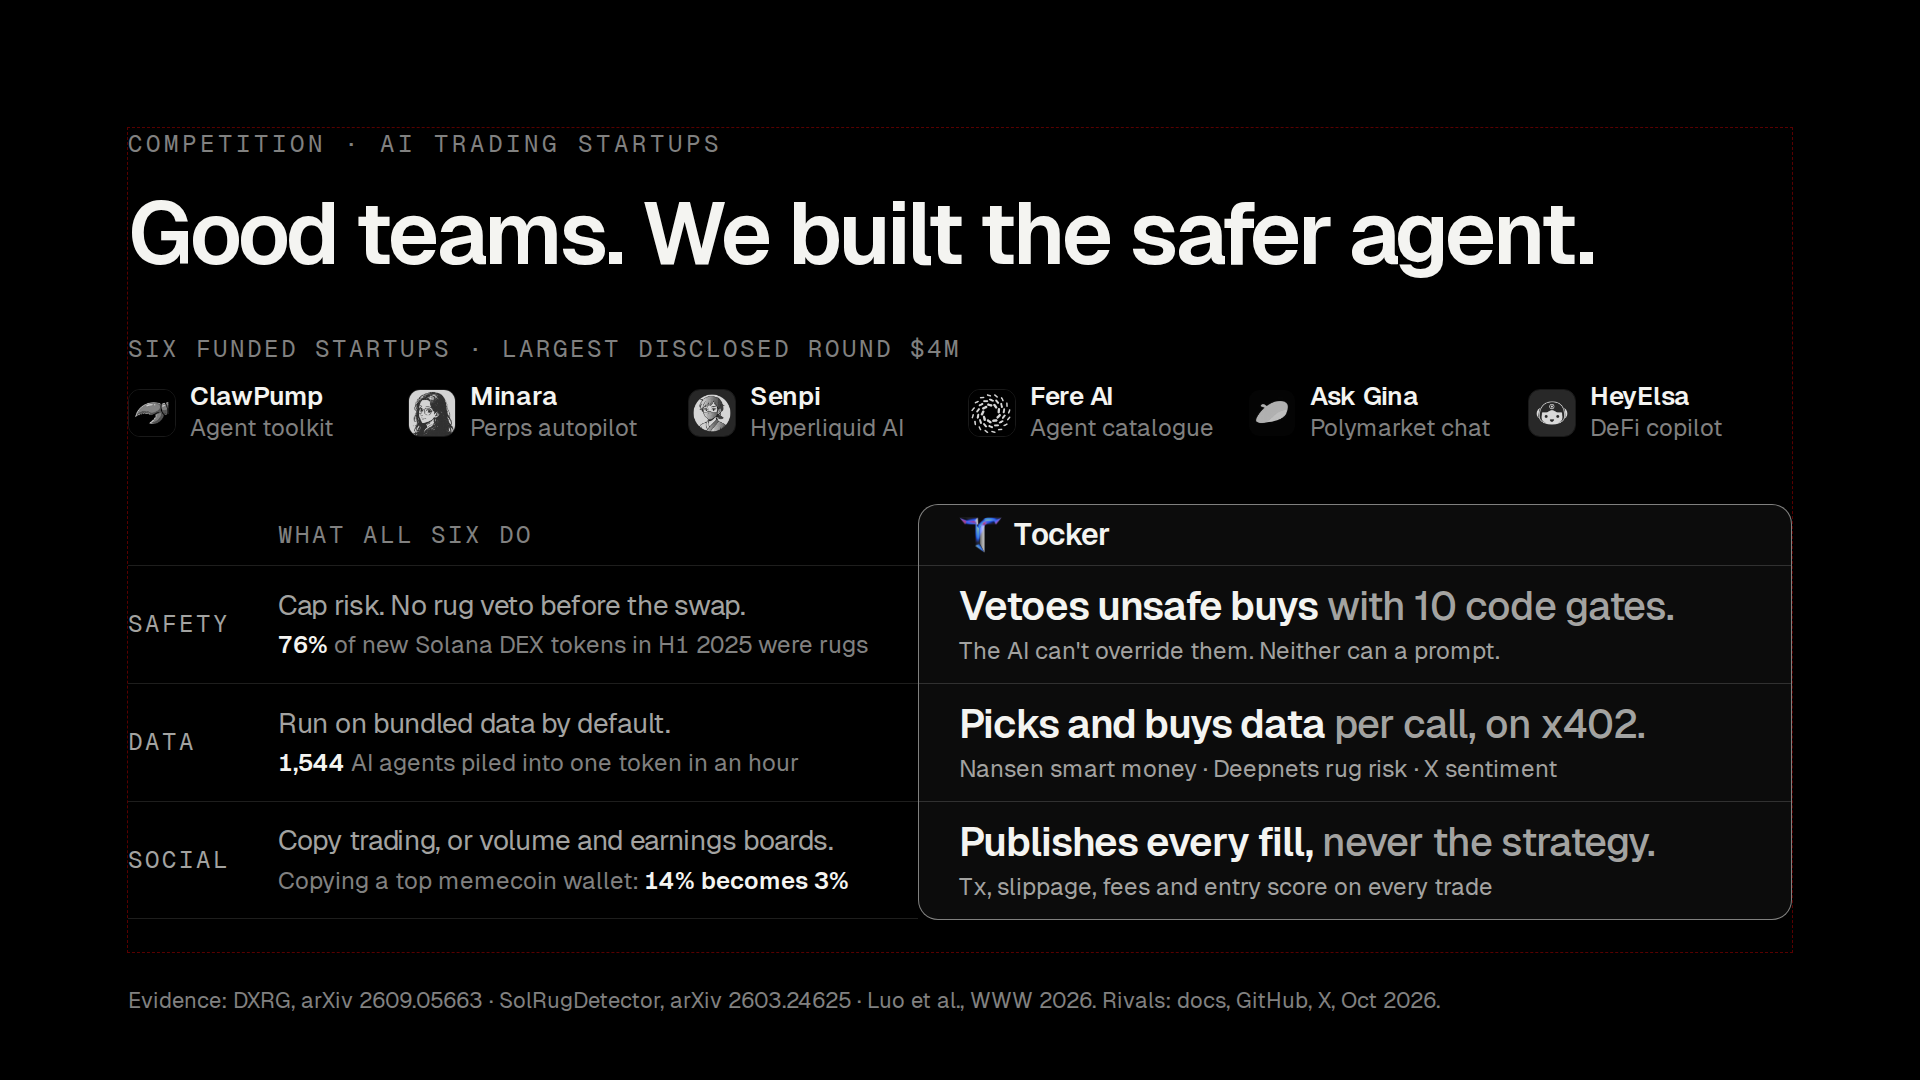
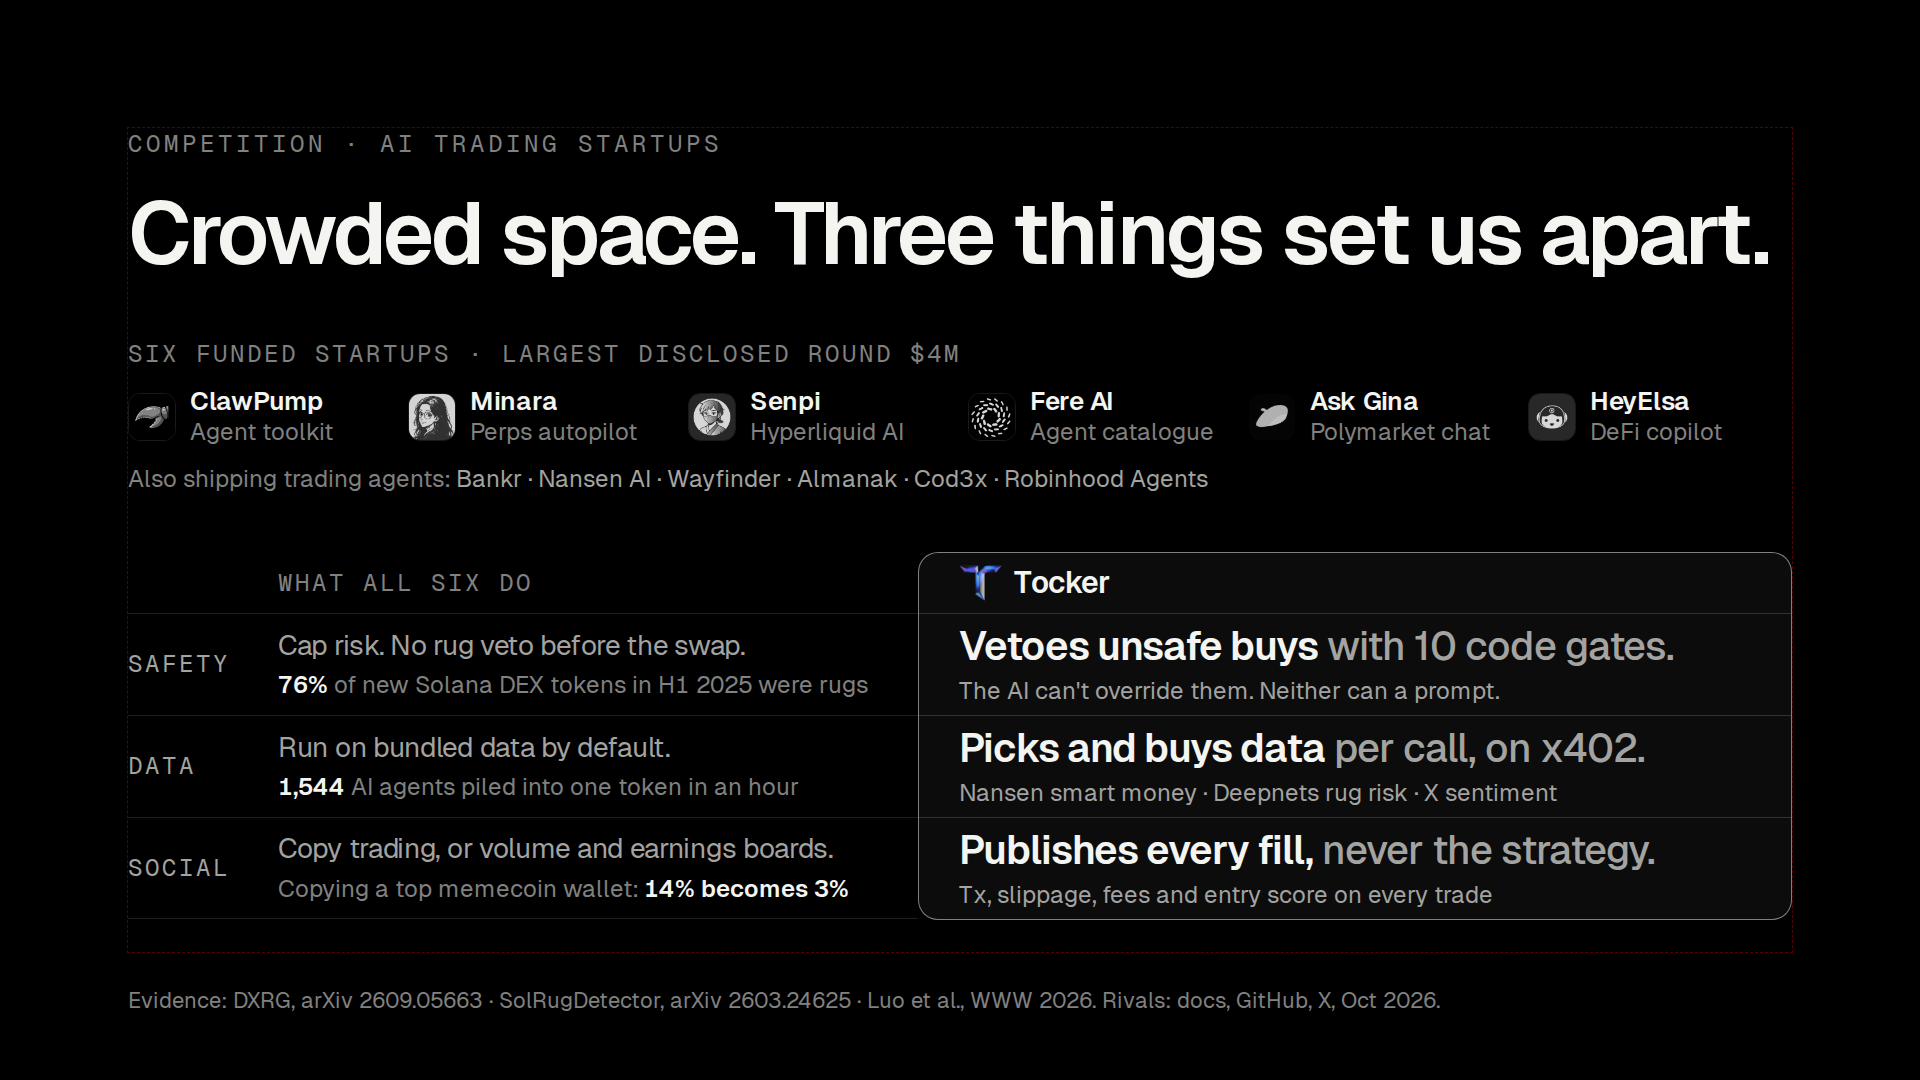
docs(pitch): drop the proof slide; competition shows a crowded field and three differences
Claude-Session: https://claude.ai/code/session_01C63X7bmiYFRUvieQLSha7b

diff --git a/docs/pitch/deck/build_competition.py b/docs/pitch/deck/build_competition.py
@@ -13,8 +13,9 @@ OUT = sys.argv[1] if len(sys.argv) > 1 else \
 DATA = {
     "eyebrow": "Competition · AI trading startups",
     # Founder's original, kept as an option: "An early category. A different approach."
-    "headline": "Good teams. We built the safer agent.",
+    "headline": "Crowded space. Three things set us apart.",
     "field_label": "Six funded startups · largest disclosed round $4M",
+    "also": ("Also shipping trading agents: ", "Bankr · Nansen AI · Wayfinder · Almanak · Cod3x · Robinhood Agents"),
     # (name, logo blob, best at; "invert" flips a light tile dark)
     "field": [
         ("ClawPump", "/_blob/0bc2d38756d41a19b0f4b42cae97ee97", "Agent toolkit"),
@@ -43,9 +44,10 @@ DATA = {
     ],
     "foot": ("Evidence: DXRG, arXiv 2609.05663 · SolRugDetector, arXiv 2603.24625 · Luo et al., WWW 2026. "
              "Rivals: docs, GitHub, X, Oct 2026."),
-    "note": ("Six AI trading startups, good teams, mostly perps and chat. We're better in three ways. Safety: nothing "
-             "of theirs vetoes a rug before the swap; ours does, in code, and the AI can't override it. Data: they share "
-             "bundled feeds, so agents herd; ours buys its own, per call. And we publish every fill, never the strategy."),
+    "note": ("This space is crowded. Six funded AI trading startups, plus Bankr, Nansen and now Robinhood, all "
+             "shipping agents. Good teams. Three things set us apart. Safety: none of the six vetoes a rug before the "
+             "swap; ours refuses in code, and the AI can't override it. Data: they run on bundled feeds, so agents herd; "
+             "ours buys its own, per call. And we publish every fill, never the strategy, instead of copy trading."),
 }
 
 MONO = "font-family:'Geist Mono', 'Courier New', monospace"
@@ -59,7 +61,7 @@ THEY_W = 640
 TOCK_W = 1664 - LABEL_W - THEY_W          # 874
 PAD = 40
 HEAD_H = 60
-ROW_H = 118
+ROW_H = 102
 TILE = 48
 
 
@@ -82,8 +84,11 @@ def field_strip():
                   f'<div style="display:flex;flex-direction:column;gap:2px">'
                   f'<p style="font-size:26px;font-weight:600;letter-spacing:-0.3px;line-height:1.15;color:{FG};white-space:nowrap">{esc(name)}</p>'
                   f'<p style="font-size:24px;line-height:1.2;color:{DIM};white-space:nowrap">{esc(best)}</p></div></div>')
+    pre, names = DATA["also"]
+    also = (f'<p style="font-size:24px;line-height:1.2;color:{DIM};white-space:nowrap">{esc(pre)}'
+            f'<span style="color:{MID}">{esc(names)}</span></p>')
     return (f'<div style="display:flex;flex-direction:column;gap:18px">{mono(DATA["field_label"])}'
-            f'<div style="display:flex;flex-direction:row;gap:16px">{tiles}</div></div>')
+            f'<div style="display:flex;flex-direction:row;gap:16px">{tiles}</div>{also}</div>')
 
 
 def left_block():
@@ -130,7 +135,7 @@ def build():
         f'<h2 style="{SANS};font-size:88px;font-weight:600;letter-spacing:-3px;line-height:1.05;color:{FG}">{esc(DATA["headline"])}</h2>\n'
         f'<div style="flex:1"></div>\n'
         f'{field_strip()}\n'
-        f'<div style="height:14px"></div>\n'
+        f'<div style="height:2px"></div>\n'
         f'{compare}\n'
         f'<p style="position:absolute;left:128px;bottom:64px;width:1664px;font-size:22px;line-height:1.35;color:{DIM};white-space:nowrap">{esc(DATA["foot"])}</p>\n'
         f'<aside>{esc(DATA["note"])}</aside>\n</section>\n'

diff --git a/docs/pitch/pitch-3min.md b/docs/pitch/pitch-3min.md
@@ -1,9 +1,9 @@
 # Tocker — 3-minute pitch (short deck, v6)
 
-~445 words over 11 slides, about 2:40 at 160 wpm. Reworked on Oct 8, 2026 after a pitch roast that pushed on three things: "what's the edge?", "the competitors are well established", and "performance". [pause] marks a beat.
+~416 words over 10 slides, about 2:35 at 160 wpm. Reworked on Oct 8, 2026 after a pitch roast that pushed on three things: "what's the edge?", "the competitors are well established", and "performance". [pause] marks a beat.
 - **Edge** (new slide, replaces the x402 "alpha" slide): not prediction but not losing, in three steps. Refuse the rugs (gates in code), pick by your thesis (paid data, cents a token), exit by rule. Evidence: research/29, code: research/30.
-- **Proof** (new slide): a pre-registered gate audit and a real-money house cohort with controls. This is a plan, not a result; the slide commits us to running it.
-- **Competition**: AI trading startups only. "Good teams. We built the safer agent." What all six do vs Tocker, safety first: no rug veto before the swap vs 10 code gates the AI can't override; bundled data vs data bought per call; copy trading vs every fill public, never the strategy. Terminals (Axiom, GMGN, fomo) stay in Q&A 5 and Know the field.
+- **Proof** slide dropped (Oct 9): the gate audit and house cohort stay in Q&A 20 as the plan, not on a slide.
+- **Competition**: AI trading startups, framed as a crowded space. "Crowded space. Three things set us apart." Six funded startups (logos), plus Bankr, Nansen AI, Wayfinder, Almanak, Cod3x and Robinhood Agents also shipping trading agents; then what all six do vs Tocker: safety, data, social. Terminals stay in Q&A 5.
 - **Stale facts fixed:** the 0.5% fee is live (main #53), the beta is open, and the solution slide no longer says "sell-check data" (Solana has no sell test).
 Earlier competition designs: docs/pitch/deck/competition-angles/.
 
@@ -22,14 +22,11 @@ Here's a sample run. The thesis: memes smart money is accumulating. Your agent f
 ## edge
 So what's the edge? Not prediction: nobody has shown an AI that picks memecoin winners. It starts with not losing. Our gates refuse the rugs, and the AI can't override them. Your thesis picks from what's left. And exits run by rule: in a live contest, none of thirty AI agents got liquidated. Forty-three percent of humans did.
 
-## proof
-Claims aren't proof, so we'll prove it in public. We log every launch with its gate verdict and check which ones died within a day. And house agents trade real money, gates on and off, against random entries and just holding SOL. Every agent shown.
-
 ## business
 Who pays? Traders already do: nine hundred forty million dollars last year to Solana bots and terminals, at one percent a trade. We charge half, and it's live.
 
 ## competition
-Six AI trading startups, good teams, mostly perps and chat. We're better in three ways. Safety: nothing of theirs vetoes a rug before the swap; ours does, in code, and the AI can't override it. Data: they share bundled feeds, so agents herd; ours buys its own, per call. And we publish every fill, never the strategy.
+This space is crowded. Six funded AI trading startups, plus Bankr, Nansen and now Robinhood, all shipping agents. Good teams. Three things set us apart. Safety: none of the six vetoes a rug before the swap; ours refuses in code, and the AI can't override it. Data: they run on bundled feeds, so agents herd; ours buys its own, per call. And we publish every fill, never the strategy, instead of copy trading.
 
 ## gtm
 That public record is the growth loop: every trade posts with its score and markets itself, and followers launch their own. We start with Solana memecoins, four hundred eighty-two billion dollars last year, then Polymarket and tokenized stocks.
@@ -43,7 +40,6 @@ We're in open beta on Solana and Base. Tomorrow, twenty-one thousand more tokens
 ## What's labelled planned (keep it that way until shipped)
 - 50 bps fee: LIVE on main as 0.5% of each fill (#53, `src/lib/platform/fee.ts`), in place of the flat $0.10. SPEC.md on this branch still says $0.10.
 - Pay-per-use AI ships switched off (`src/lib/x402/inference-types.ts`); "no keys" holds only where it is switched on.
-- Proof slide: the gate audit and the house cohort are not built yet (research/30 §6: ~4 days to build the audit, ~3 to set up the cohort). Don't present it as running until it is.
 - An outcome-fitted score is "next": today the score's weights are hand-set and have never been checked against results.
 - Inference paid per call in USDC: LIVE behind a per-account switch (main #28 'Pay-per-use thinking', #29 eleven models). An agent with no LLM key buys each model step from BlockRun in USDC from its own Solana wallet; spend caps and a kill switch (INFERENCE_USDC) on the admin page. Disclose the founder's BlockRun role (Q&A 6).
 - Polymarket and tokenized stocks: "next".
@@ -57,8 +53,8 @@ We're in open beta on Solana and Base. Tomorrow, twenty-one thousand more tokens
 - x402 Foundation backers: Linux Foundation (2026) — research/06
 - Per-call prices: src/lib/data-sources/*.ts. Per token on Solana: ~1.6¢ on default sources (X search + Deepnets), ~6.6¢ with Nansen on, so "2–7¢"; Base ~0.6¢ default, ~10.6¢ with Nansen — research/30 §7
 - Edge slide: 76% (SolRugDetector, arXiv 2603.24625, 100,063 tokens, H1 2025); 0 of 30 AI agents liquidated vs 43% of humans, AI −4.5% vs humans −32% (Aster Human vs AI Season 1, Chainwire, 14 Jan 2026; perps, not memecoins) — research/29 A1, A3
-- Proof slide footer: across 888 Quantopian strategies, backtest Sharpe explained R² < 0.025 of live (Wiecki et al., 2016) — research/29 C
-- Competition: $940M = Solana bots and terminals, 2025 (The Block, Jan 2026); $4M = Senpi seed (Sep 2025); terminal features from their docs — research/29 B. The 94% on the problem slide is fomo-app wallet data via Dune (research/28), which is why the note can say "fomo's own wallet data".
+- Competition "also shipping" line: Bankr, Nansen AI (autonomy still in paper trading), Wayfinder, Almanak (TVL ≈$446K), Cod3x (47 users), Robinhood Agents (150K agentic accounts, listed assets only; Fortune, 29 Sep 2026) — research/29 B. Make no claims about them beyond "shipping trading agents".
+- Terminals (for Q&A): $940M = Solana bots and terminals, 2025 (The Block, Jan 2026); $4M = Senpi seed (Sep 2025); terminal features from their docs — research/29 B. The 94% on the problem slide is fomo-app wallet data via Dune (research/28), which is why the note can say "fomo's own wallet data".
 - $1.7B = $940M bots/terminals + $762M launchpads (2025): Solana Foundation recap, Blockworks Research — research/04
 - $482B Solana memecoin volume in 2025 (down ~10% YoY): Solana's 2025 recap, via Bitget/ChainCatcher (https://www.bitget.com/news/detail/12560605132683) and Coinpedia/TradingView — self-reported by Solana; same recap as the $940M bot-fee figure (research/04)
 - ~$21.5B Polymarket volume in 2025: Keyrock x Dune report via Odaily (https://www.odaily.news/en/post/5208620); Sacra concurs (research/13). Other counts: ~$22.5B (Dune dashboard), ~$10.5B (DefiLlama DEX-only)
